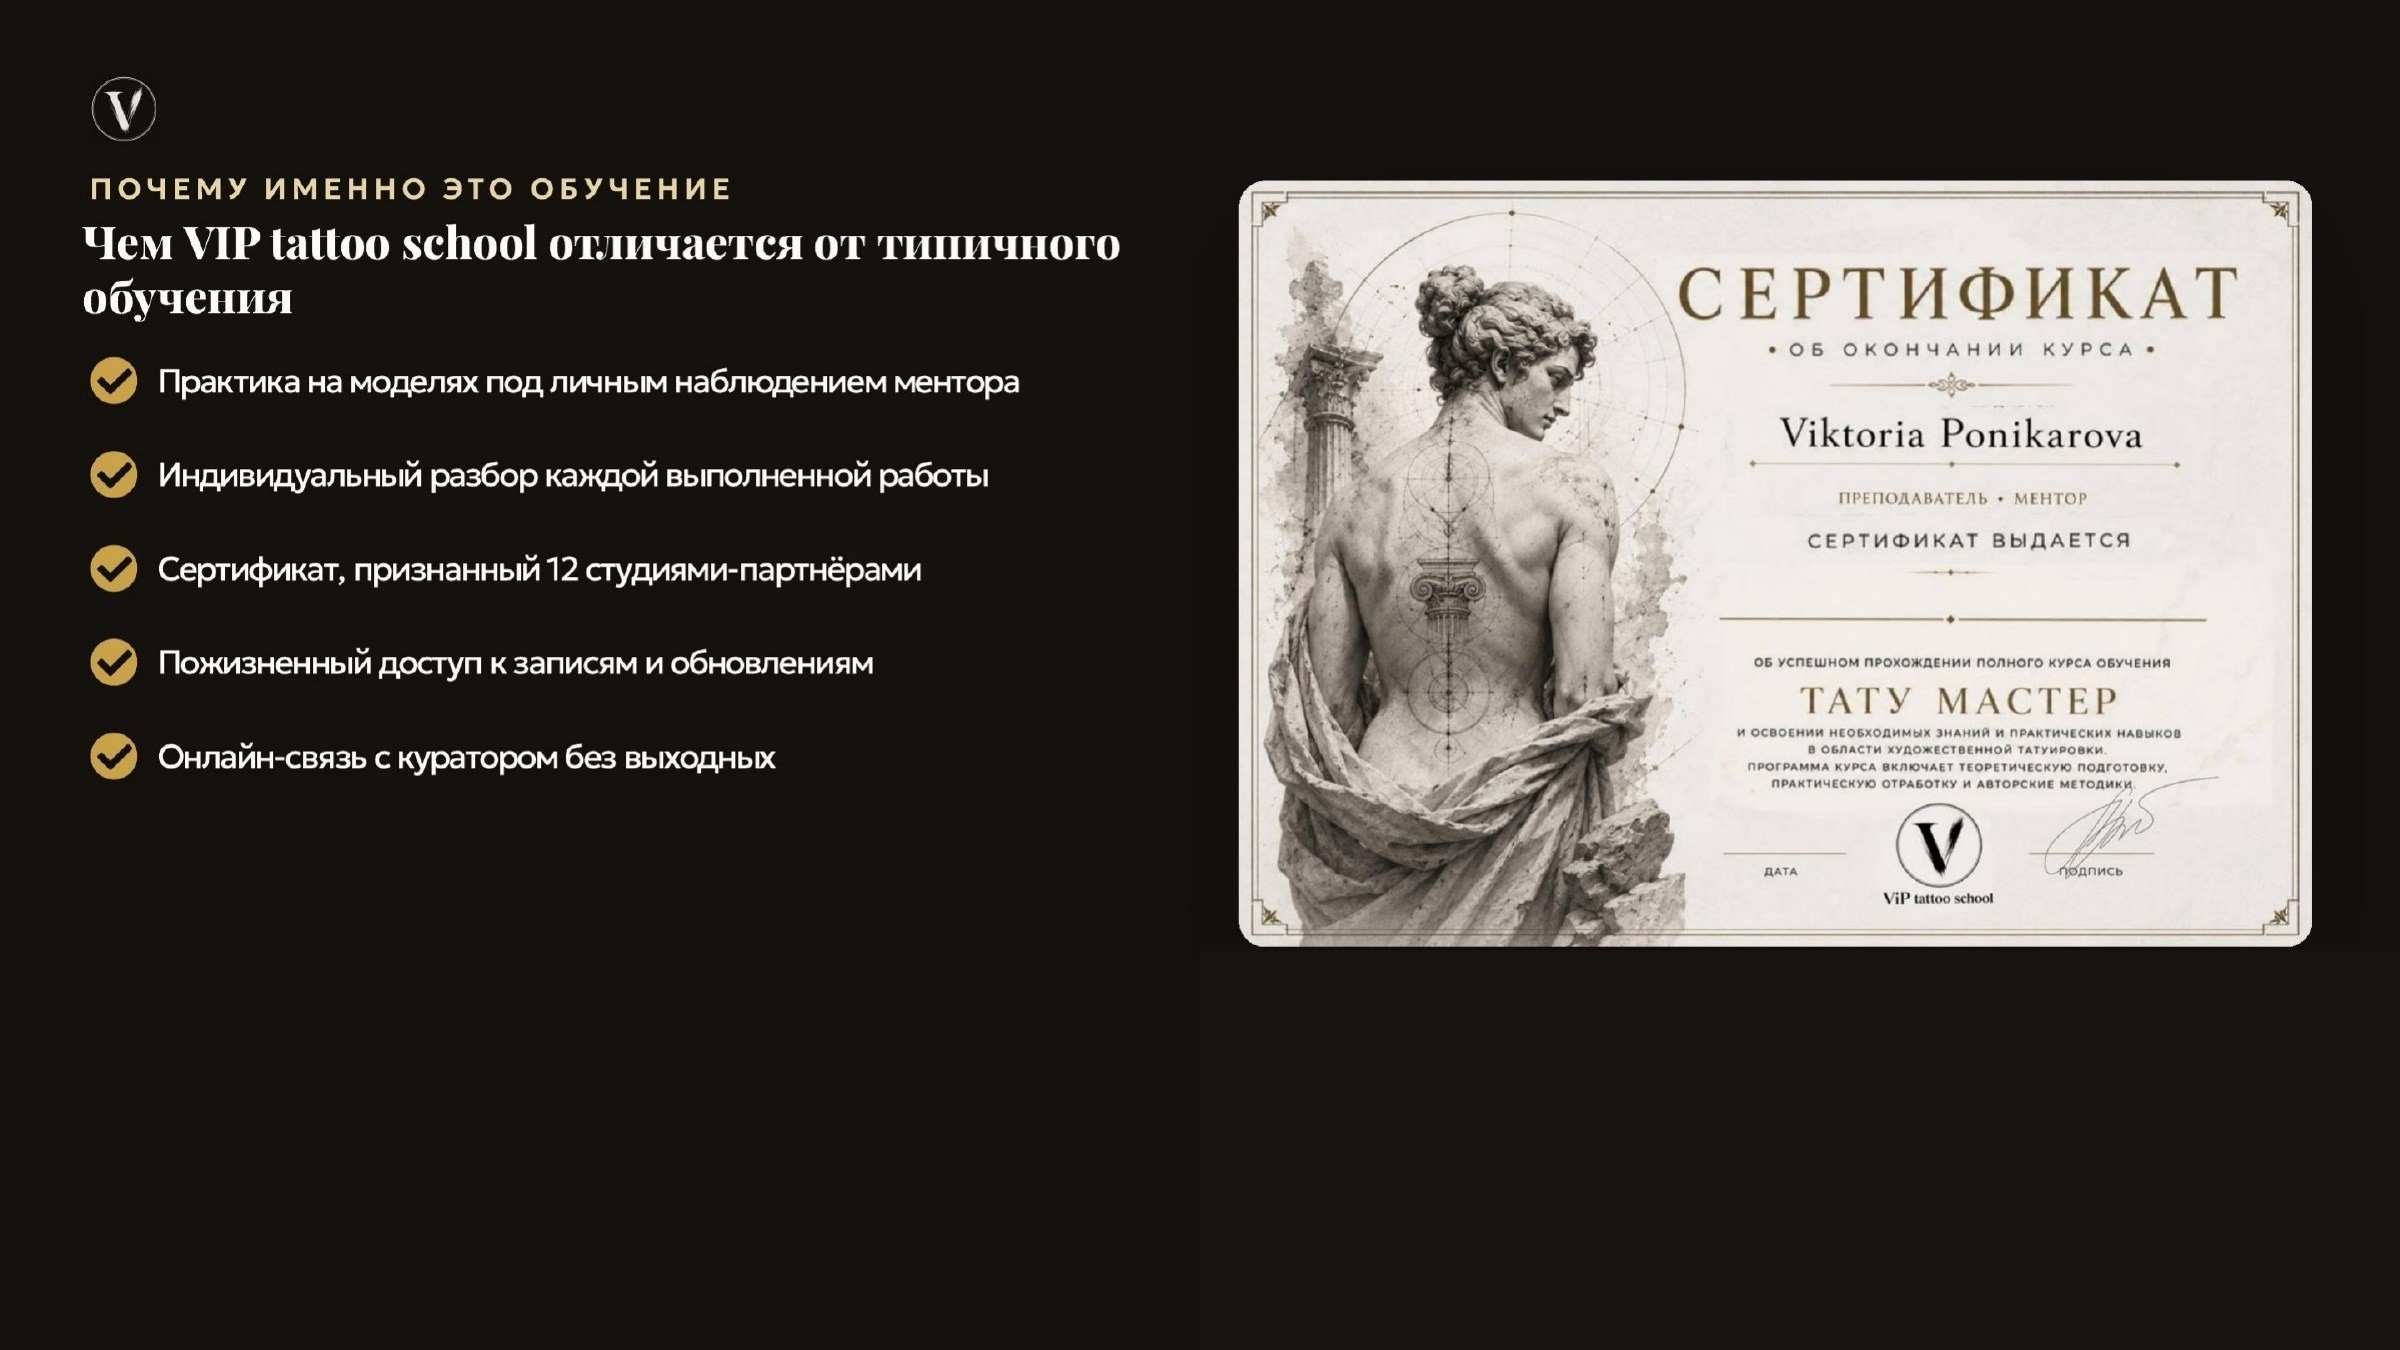
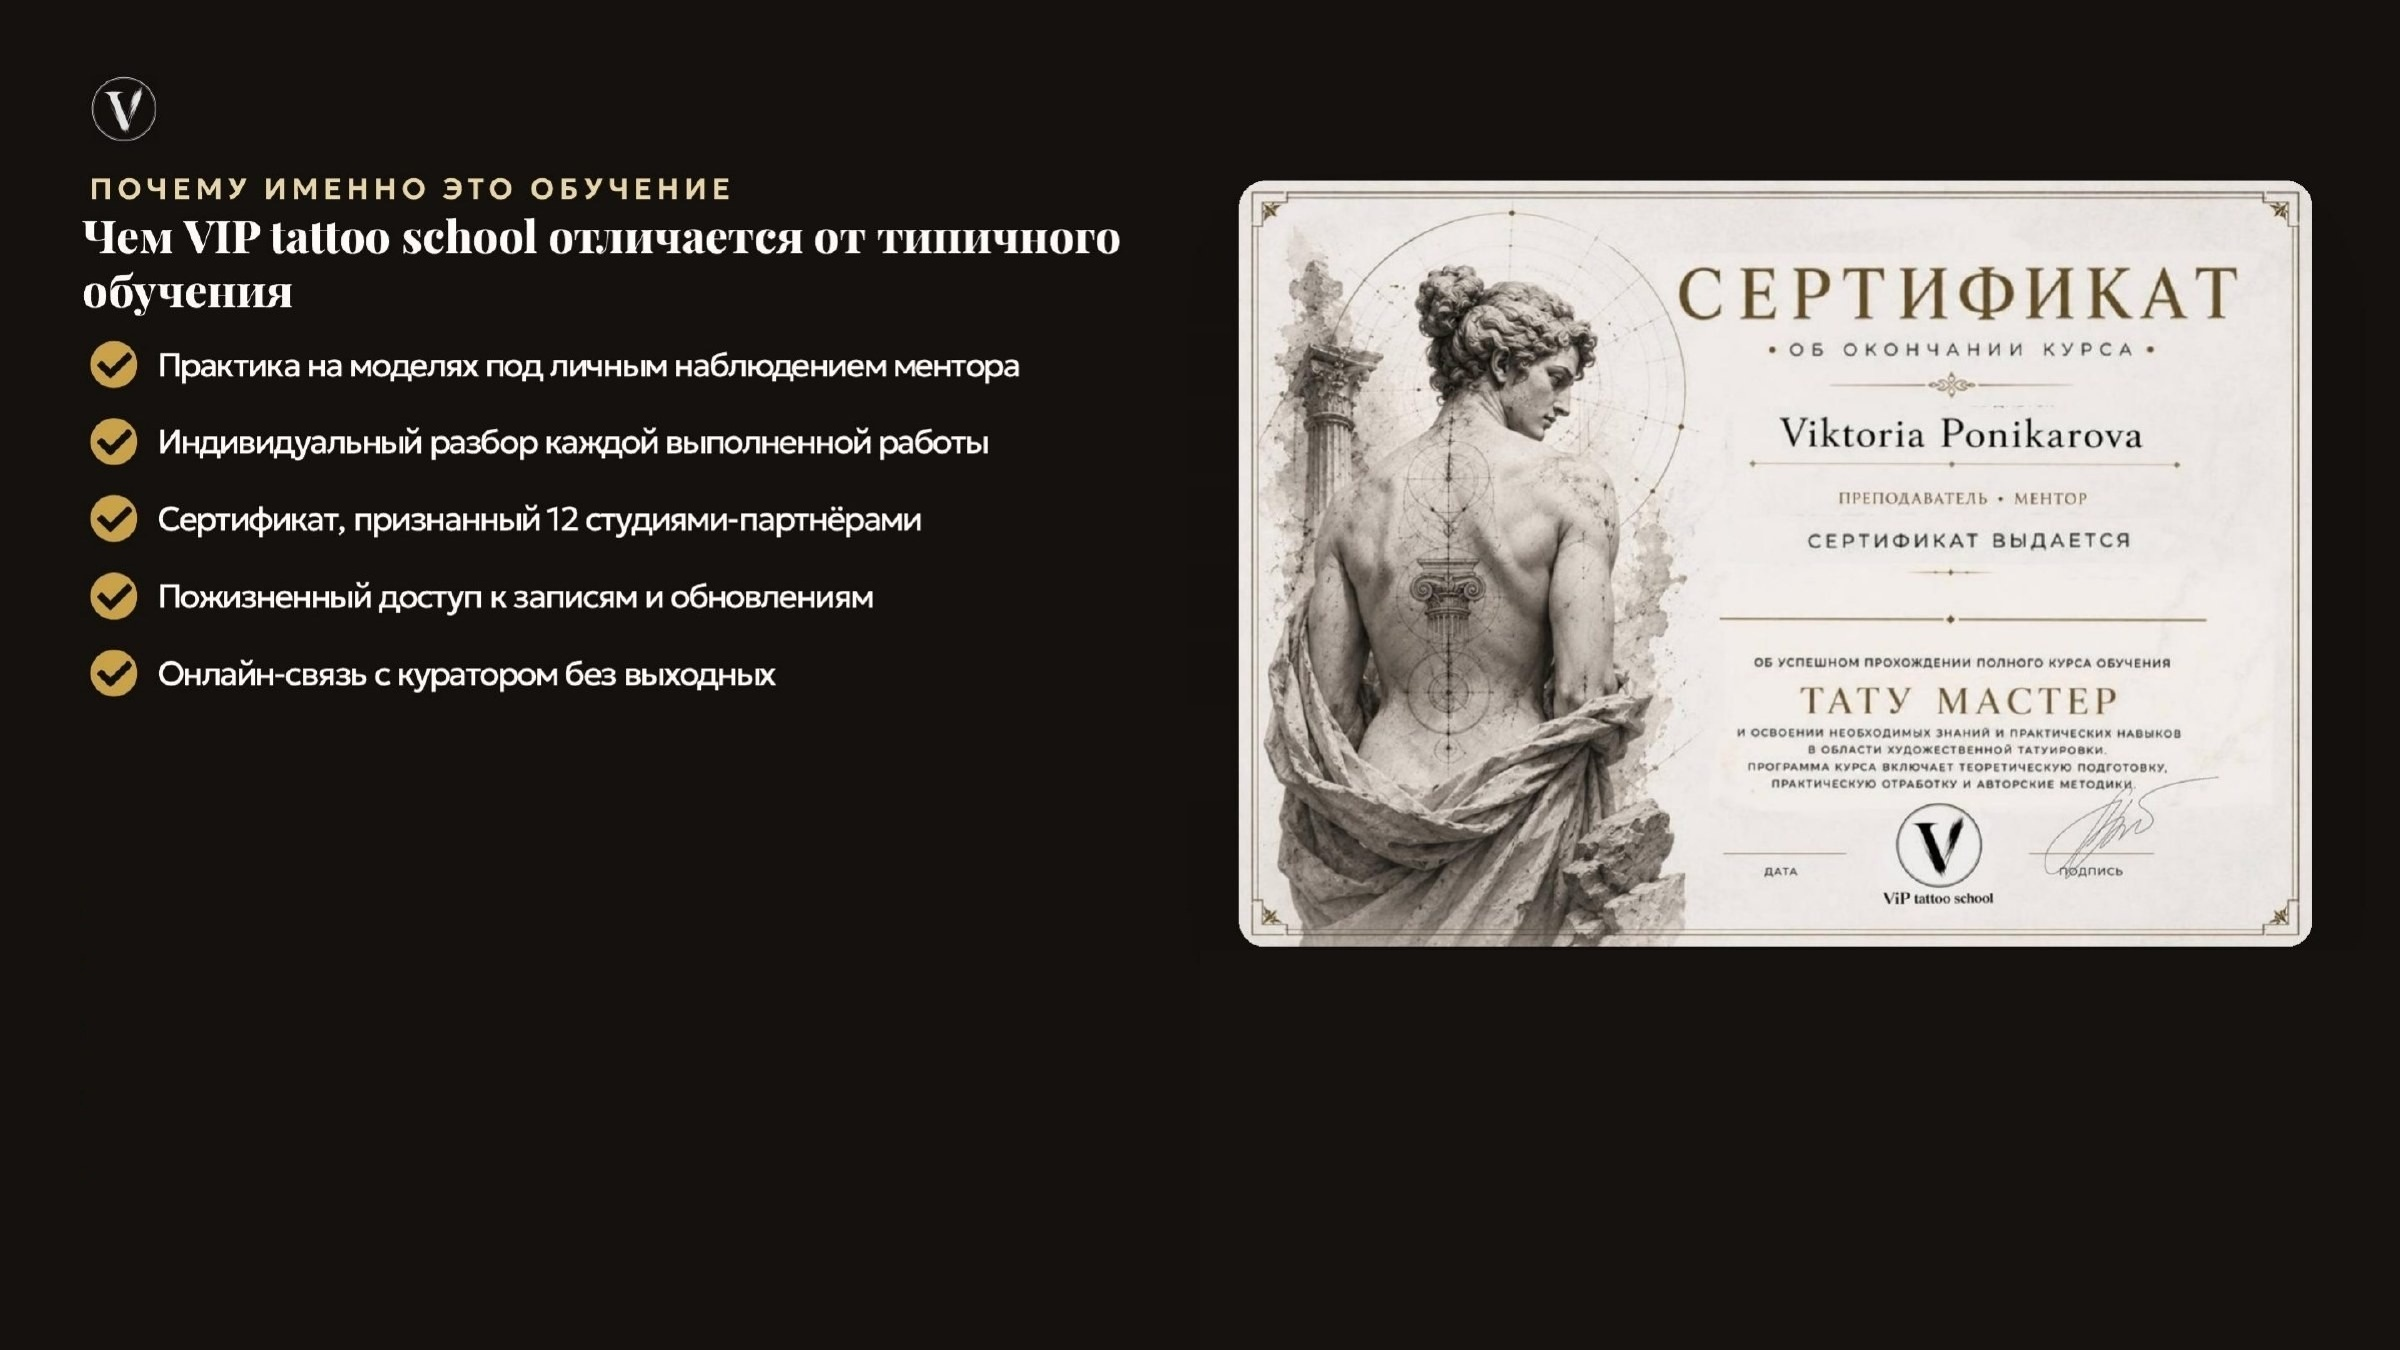
Tighten line spacing in slide-23 comparison checklist

Changed region(s): [[0.0312, 0.1556, 0.4688, 0.5911]]

diff --git a/wordpress-plugin/vip-tattoo-plan-viewer/content/body-plan.html b/wordpress-plugin/vip-tattoo-plan-viewer/content/body-plan.html
@@ -109,7 +109,7 @@
   </div>
   <div class="slide-wrap"><img class="slide-img" src="{{ASSET_URL}}slides/slide-22.jpg?v=10" alt="Слайд 22 - популярные вопросы"><div class="ov sq-icon-hdr" style="left:3.958%;top:5.185%;width:6.333%;height:11.481%;"><img src="{{ASSET_URL}}icons/question.png?v=3" alt=""></div><div class="ov ov-hdr-subtitle" style="left:17.96%;top:12.59%;width:60%;">Часто задаваемые вопросы.</div><div class="ov ov-badge on-dark" style="left:91.29%;"><span class="num">22</span><span class="den">/23</span></div></div>
   <div class="slide-wrap">
-    <img class="slide-img" src="{{ASSET_URL}}slides/slide-23.jpg?v=2" alt="Слайд 23 - готов начать путь в тату-индустрии">
+    <img class="slide-img" src="{{ASSET_URL}}slides/slide-23.jpg?v=3" alt="Слайд 23 - готов начать путь в тату-индустрии">
     <div class="ov ov-s22-included">
       <div class="discount-banner">Забрать курс со скидкой за <span class="old">600€</span> <span class="new">275€</span></div>
       <div class="eyebrow">★ Ключевое преимущество</div>

diff --git a/docs/index.html b/docs/index.html
@@ -418,7 +418,7 @@
   </div>
   <div class="slide-wrap"><img class="slide-img" src="assets/slides/slide-22.jpg?v=10" alt="Слайд 22 - популярные вопросы"><div class="ov sq-icon-hdr" style="left:3.958%;top:5.185%;width:6.333%;height:11.481%;"><img src="assets/icons/question.png?v=3" alt=""></div><div class="ov ov-hdr-subtitle" style="left:17.96%;top:12.59%;width:60%;">Часто задаваемые вопросы.</div><div class="ov ov-badge on-dark" style="left:91.29%;"><span class="num">22</span><span class="den">/23</span></div></div>
   <div class="slide-wrap">
-    <img class="slide-img" src="assets/slides/slide-23.jpg?v=2" alt="Слайд 23 - готов начать путь в тату-индустрии">
+    <img class="slide-img" src="assets/slides/slide-23.jpg?v=3" alt="Слайд 23 - готов начать путь в тату-индустрии">
     <div class="ov ov-s22-included">
       <div class="discount-banner">Забрать курс со скидкой за <span class="old">600€</span> <span class="new">275€</span></div>
       <div class="eyebrow">★ Ключевое преимущество</div>
